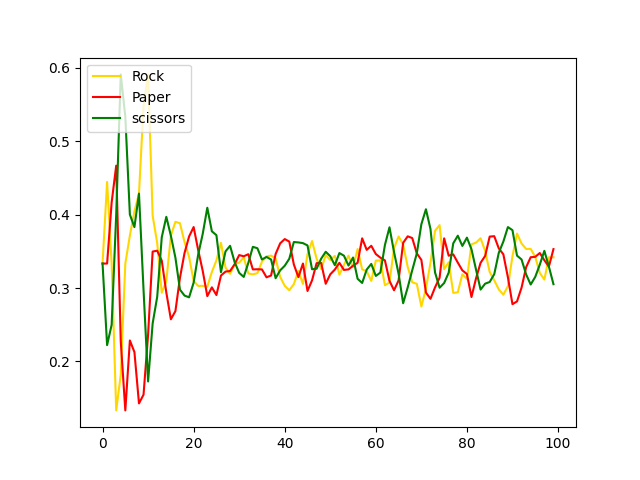
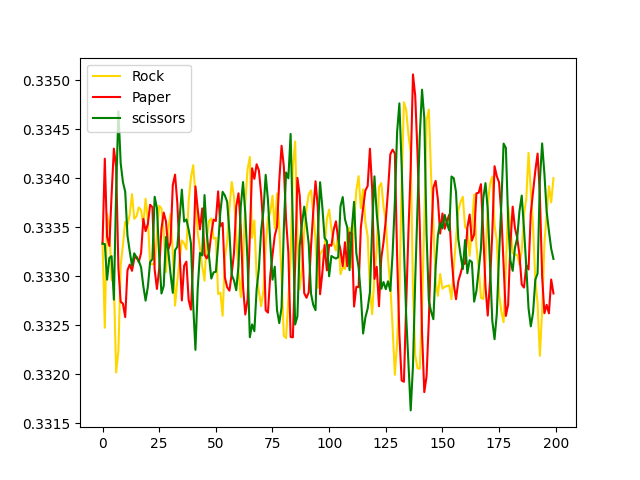
did 200 days

diff --git a/SETTINGS.py b/SETTINGS.py
@@ -1,7 +1,7 @@
-Start_people = 10_000
+Start_people = 500_000
 Mutation_factor = 0.2
-Tree_count = 50_000
-Days = 100
+Tree_count = 2_500_000
+Days = 200
 path_to_data = "data/table.csv"
 
 ROCK = 0
